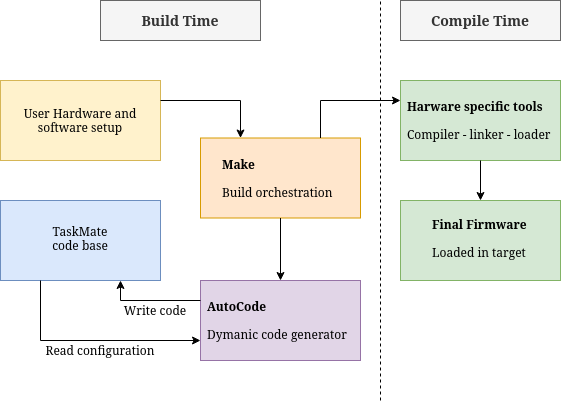
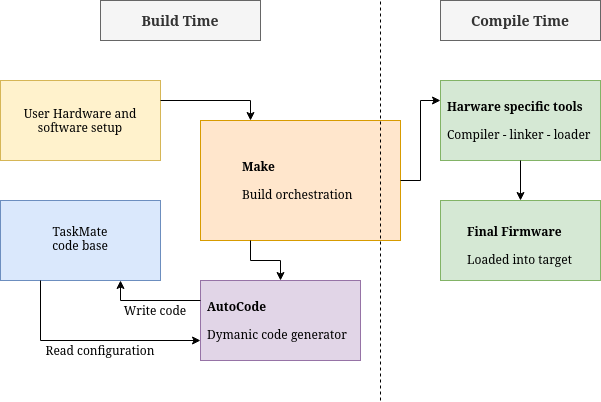
update build diagram + fix module thread pointer

diff --git a/srcs/system/sysCore/modules.c b/srcs/system/sysCore/modules.c
@@ -69,7 +69,7 @@ void mod_threadsAlloc(void)
 
 	for( uint8_t i = 0; i < TM_MOD_THREAD_COUNT; i++ )
 	{
-		mod_thread_item_t thread = mod_threadGetPointer(i);
+		mod_thread_item_t *thread = mod_threadGetPointer(i);
 		thread->canary_low = TM_MOD_CANARY;
 		thread->canary_high = TM_MOD_CANARY;
 	}

diff --git a/srcs/system/services/msg.c b/srcs/system/services/msg.c
@@ -64,7 +64,7 @@ void msg(void)
 
 	if( msgRequestChannel(&chan) == ERR_NO_ERROR )
 	{
-		msgWriteText(chan, "\3wiresig -> target 10", MSG_TO_LCD);
+		msgWriteText(chan, "\3static 123", MSG_TO_LCD);
 	}
 
 	msgProcess();

diff --git a/srcs/hal/public/sysInfo.c b/srcs/hal/public/sysInfo.c
@@ -24,7 +24,7 @@
  */
 
 TM_STR_ROM_NEW(tm_ver, "0.28");
-const uint16_t tm_build = 526;
+const uint16_t tm_build = 528;
 
 // clang-format on
 // [/tag]
